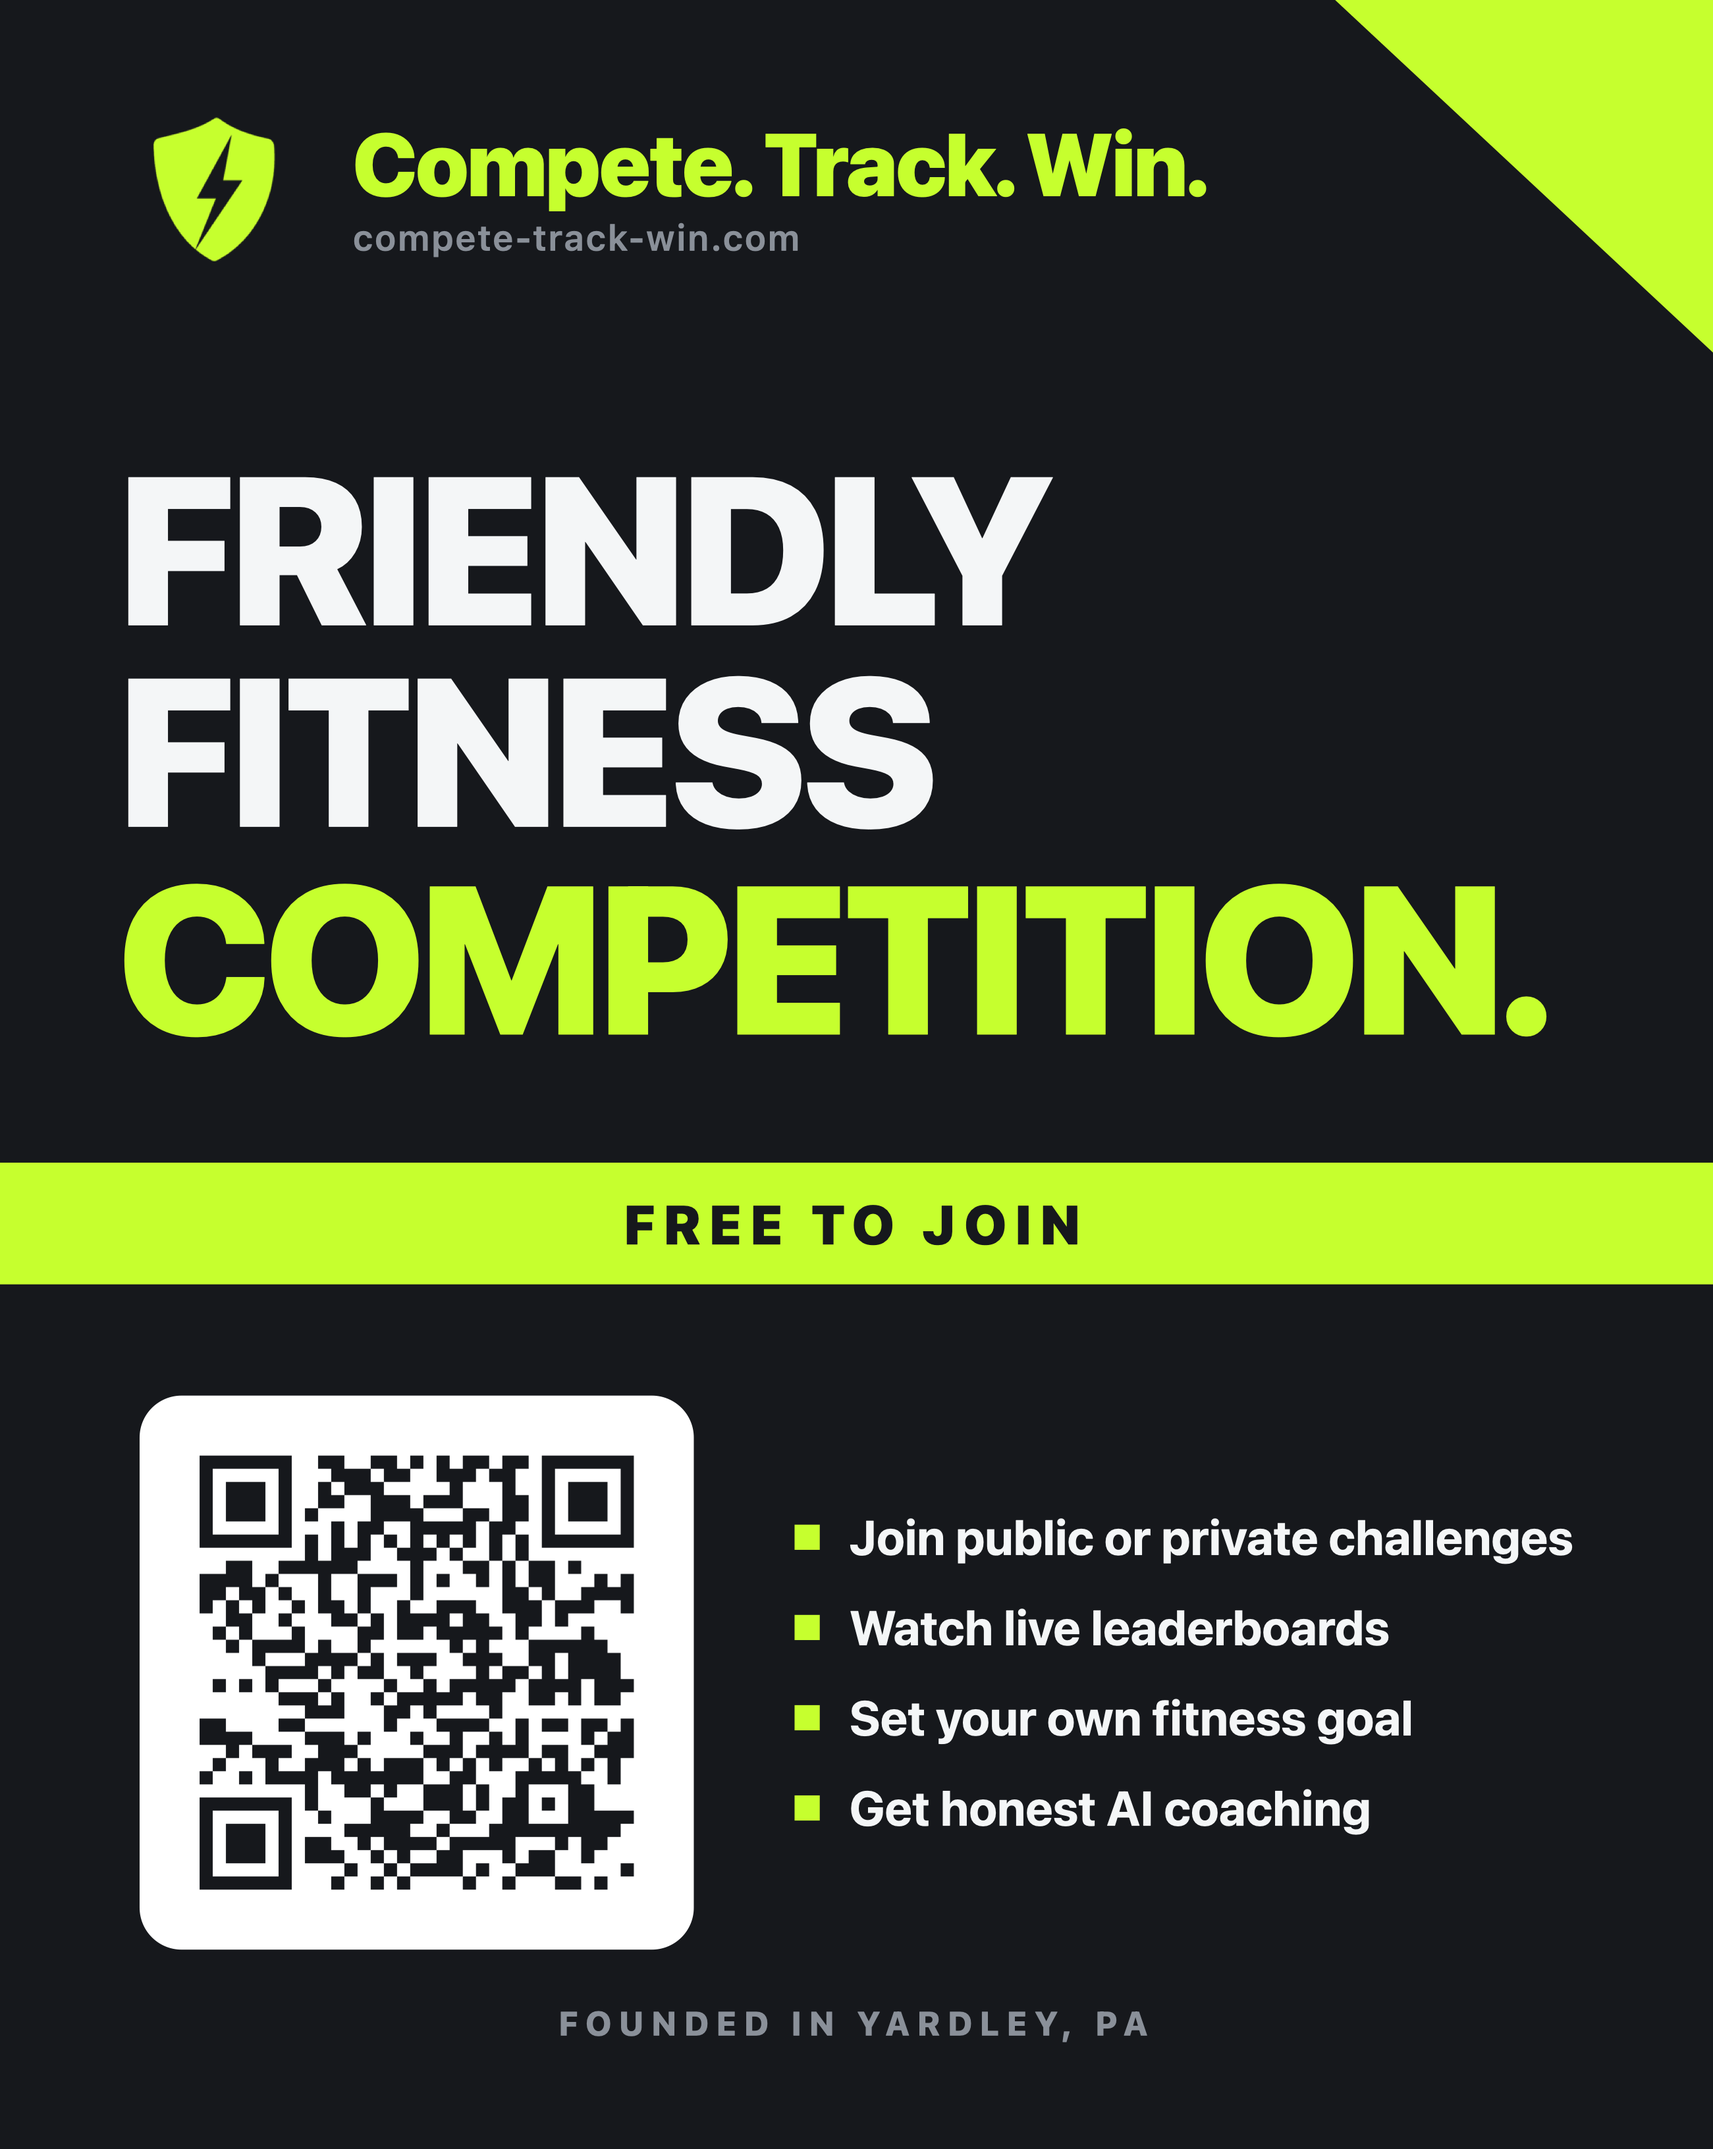
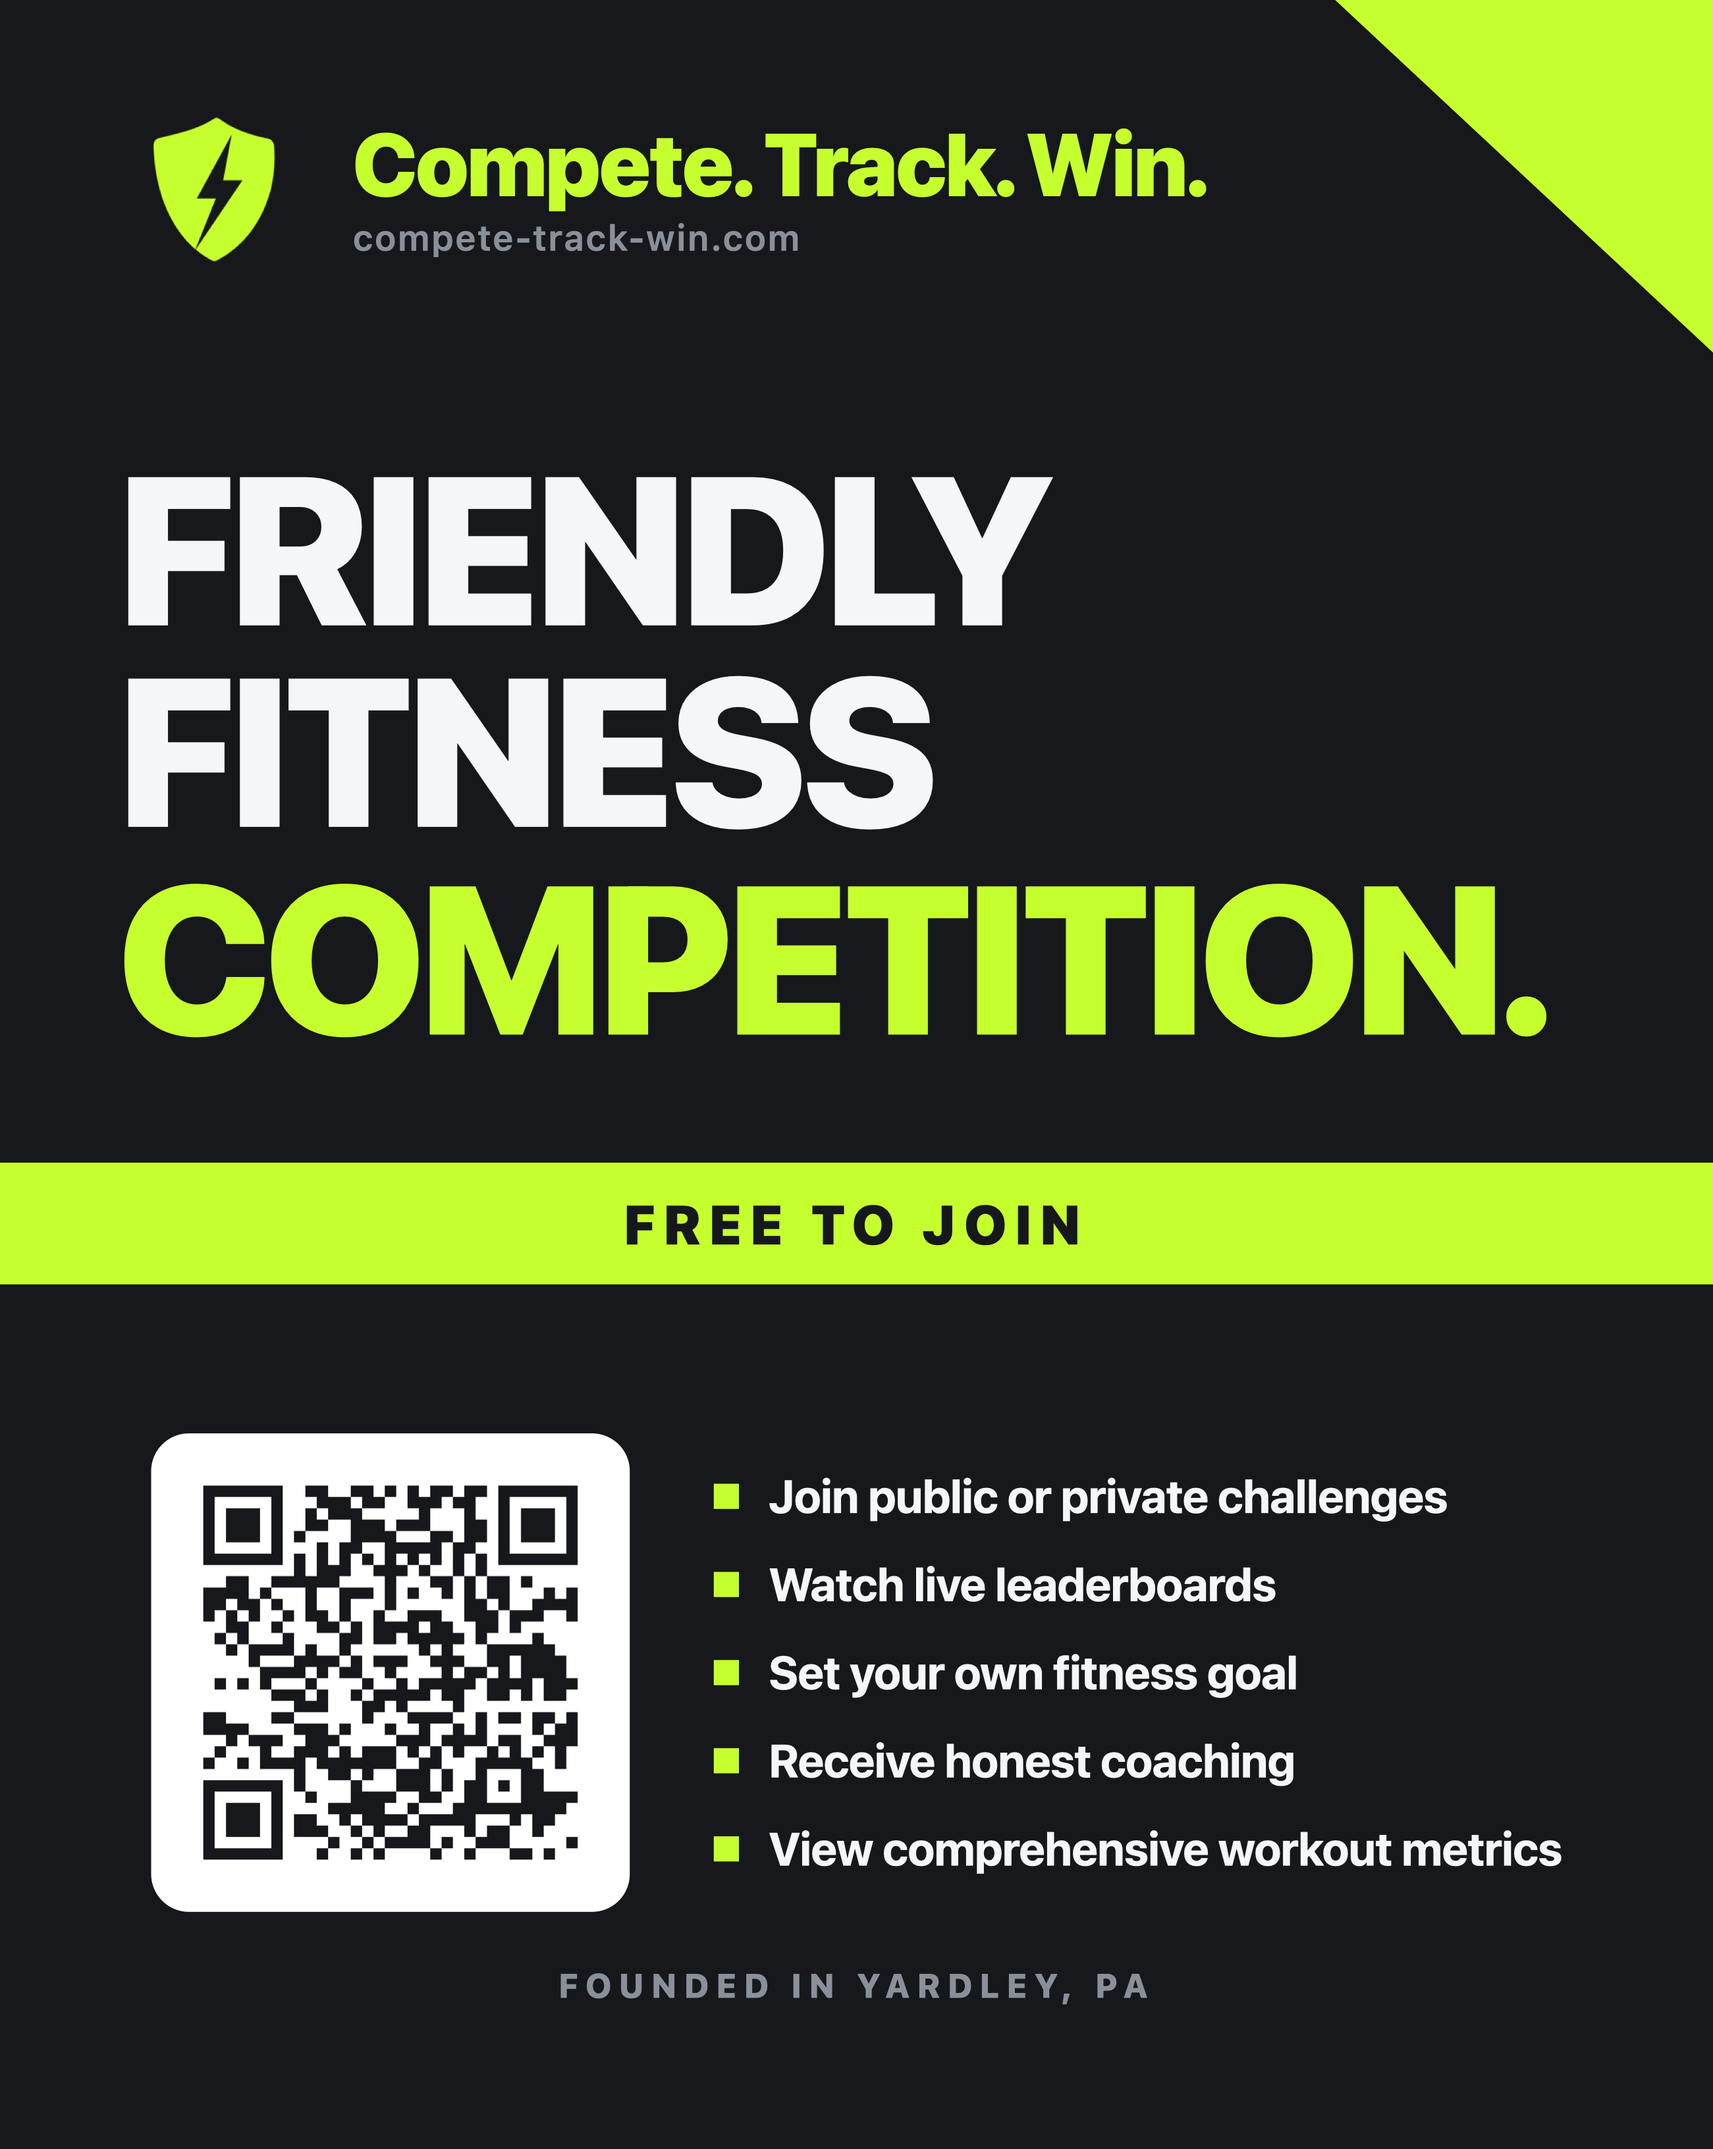
generic flyer v6: one-line bullets (no AI wording), coaching 4th; dark share backgrounds

Changed region(s): [[0.0623, 0.625, 0.9031, 0.9688]]

diff --git a/print/beat-your-friends.html b/print/beat-your-friends.html
@@ -8,7 +8,7 @@
 
 
   <style>
-    body { margin: 0; font-family: -apple-system, "Helvetica Neue", Helvetica, Arial, sans-serif; }
+    body { margin: 0; background: #16181C; display: flex; justify-content: center; font-family: -apple-system, "Helvetica Neue", Helvetica, Arial, sans-serif; }
     a { color: #C6FF2E; } a:hover { color: #D9F2A0; }
   </style>
 
@@ -40,15 +40,16 @@
 
   <!-- QR left, product features right -->
   <div style="flex: 1; display: flex; flex-direction: column; align-items: center; justify-content: center; gap: 26px; padding: 0 56px 30px 56px; position: relative;">
-    <div style="display: flex; align-items: center; gap: 48px;">
-      <div style="background: #FFFFFF; border-radius: 20px; padding: 16px; display: flex; flex: none;">
[1 lines of base64/hex data omitted]
+    <div style="display: flex; align-items: center; gap: 40px;">
+      <div style="background: #FFFFFF; border-radius: 18px; padding: 14px; display: flex; flex: none;">
[1 lines of base64/hex data omitted]
       </div>
       <div style="display: flex; flex-direction: column; gap: 16px;">
-        <div style="display: flex; align-items: center; gap: 14px;"><div style="width: 12px; height: 12px; background: #C6FF2E; flex: none;"></div><div style="font-size: 23px; font-weight: 700; color: #F4F6F7;">Join public or private challenges</div></div>
-        <div style="display: flex; align-items: center; gap: 14px;"><div style="width: 12px; height: 12px; background: #C6FF2E; flex: none;"></div><div style="font-size: 23px; font-weight: 700; color: #F4F6F7;">Watch live leaderboards</div></div>
-        <div style="display: flex; align-items: center; gap: 14px;"><div style="width: 12px; height: 12px; background: #C6FF2E; flex: none;"></div><div style="font-size: 23px; font-weight: 700; color: #F4F6F7;">Set your own fitness goal</div></div>
-        <div style="display: flex; align-items: center; gap: 14px;"><div style="width: 12px; height: 12px; background: #C6FF2E; flex: none;"></div><div style="font-size: 23px; font-weight: 700; color: #F4F6F7;">Get honest AI coaching</div></div>
+        <div style="display: flex; align-items: center; gap: 14px;"><div style="width: 12px; height: 12px; background: #C6FF2E; flex: none;"></div><div style="font-size: 22px; font-weight: 700; color: #F4F6F7; white-space: nowrap; letter-spacing: -0.2px;">Join public or private challenges</div></div>
+        <div style="display: flex; align-items: center; gap: 14px;"><div style="width: 12px; height: 12px; background: #C6FF2E; flex: none;"></div><div style="font-size: 22px; font-weight: 700; color: #F4F6F7; white-space: nowrap; letter-spacing: -0.2px;">Watch live leaderboards</div></div>
+        <div style="display: flex; align-items: center; gap: 14px;"><div style="width: 12px; height: 12px; background: #C6FF2E; flex: none;"></div><div style="font-size: 22px; font-weight: 700; color: #F4F6F7; white-space: nowrap; letter-spacing: -0.2px;">Set your own fitness goal</div></div>
+        <div style="display: flex; align-items: center; gap: 14px;"><div style="width: 12px; height: 12px; background: #C6FF2E; flex: none;"></div><div style="font-size: 22px; font-weight: 700; color: #F4F6F7; white-space: nowrap; letter-spacing: -0.2px;">Receive honest coaching</div></div>
+        <div style="display: flex; align-items: center; gap: 14px;"><div style="width: 12px; height: 12px; background: #C6FF2E; flex: none;"></div><div style="font-size: 22px; font-weight: 700; color: #F4F6F7; white-space: nowrap; letter-spacing: -0.2px;">View comprehensive workout metrics</div></div>
       </div>
     </div>
     <div style="font-size: 16px; font-weight: 800; letter-spacing: 3.5px; color: #8A9099; text-align: center; white-space: nowrap;">FOUNDED IN YARDLEY, PA</div>

diff --git a/print/earn-your-slice.html b/print/earn-your-slice.html
@@ -8,7 +8,7 @@
 
 
   <style>
-    body { margin: 0; font-family: -apple-system, "Helvetica Neue", Helvetica, Arial, sans-serif; }
+    body { margin: 0; background: #16181C; display: flex; justify-content: center; font-family: -apple-system, "Helvetica Neue", Helvetica, Arial, sans-serif; }
     a { color: #C6FF2E; } a:hover { color: #D9F2A0; }
   </style>
 
